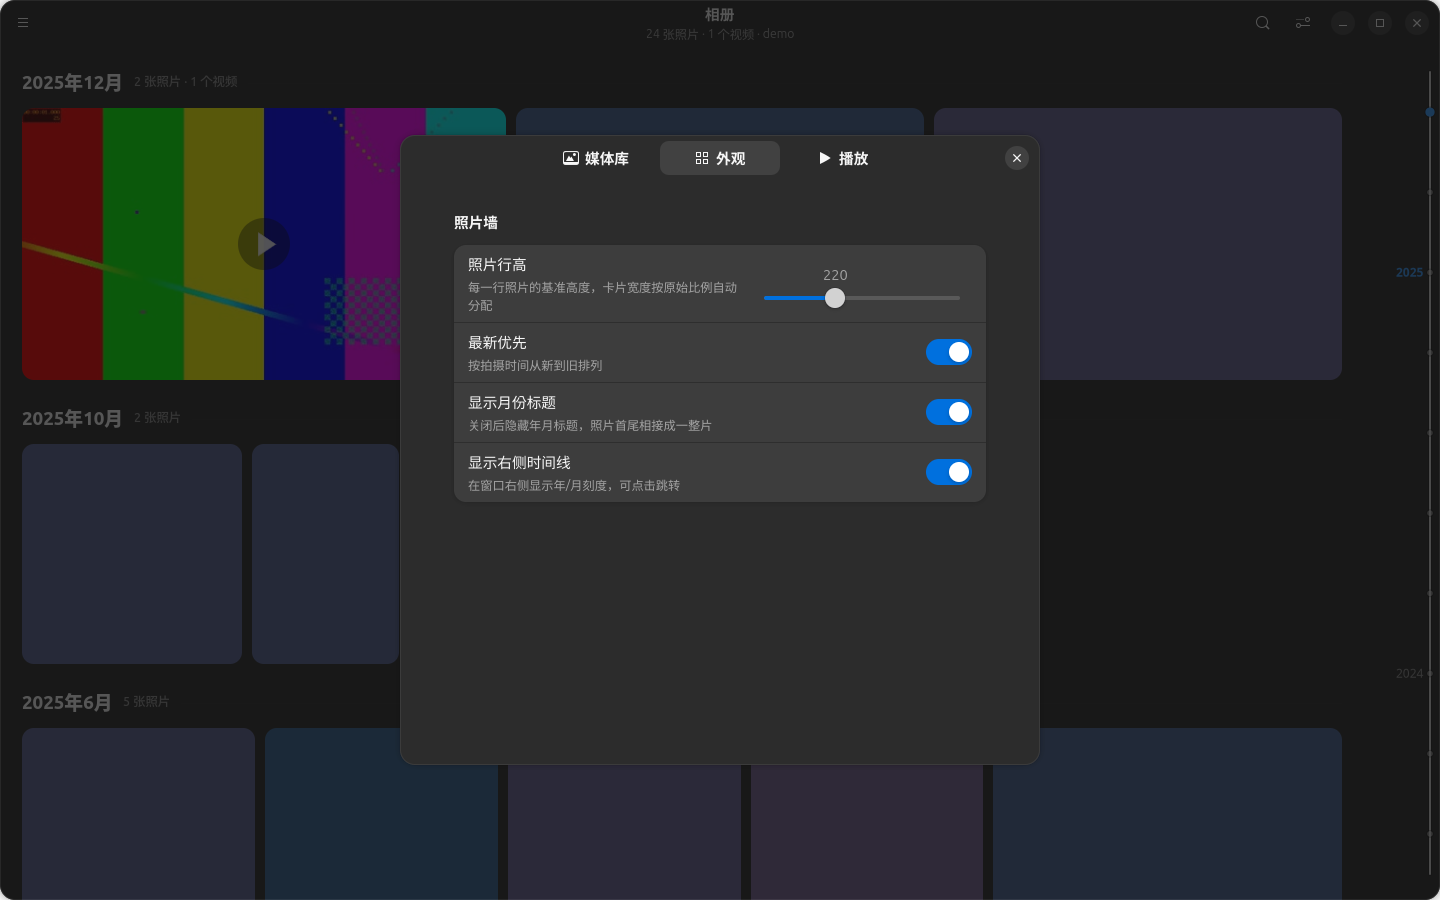
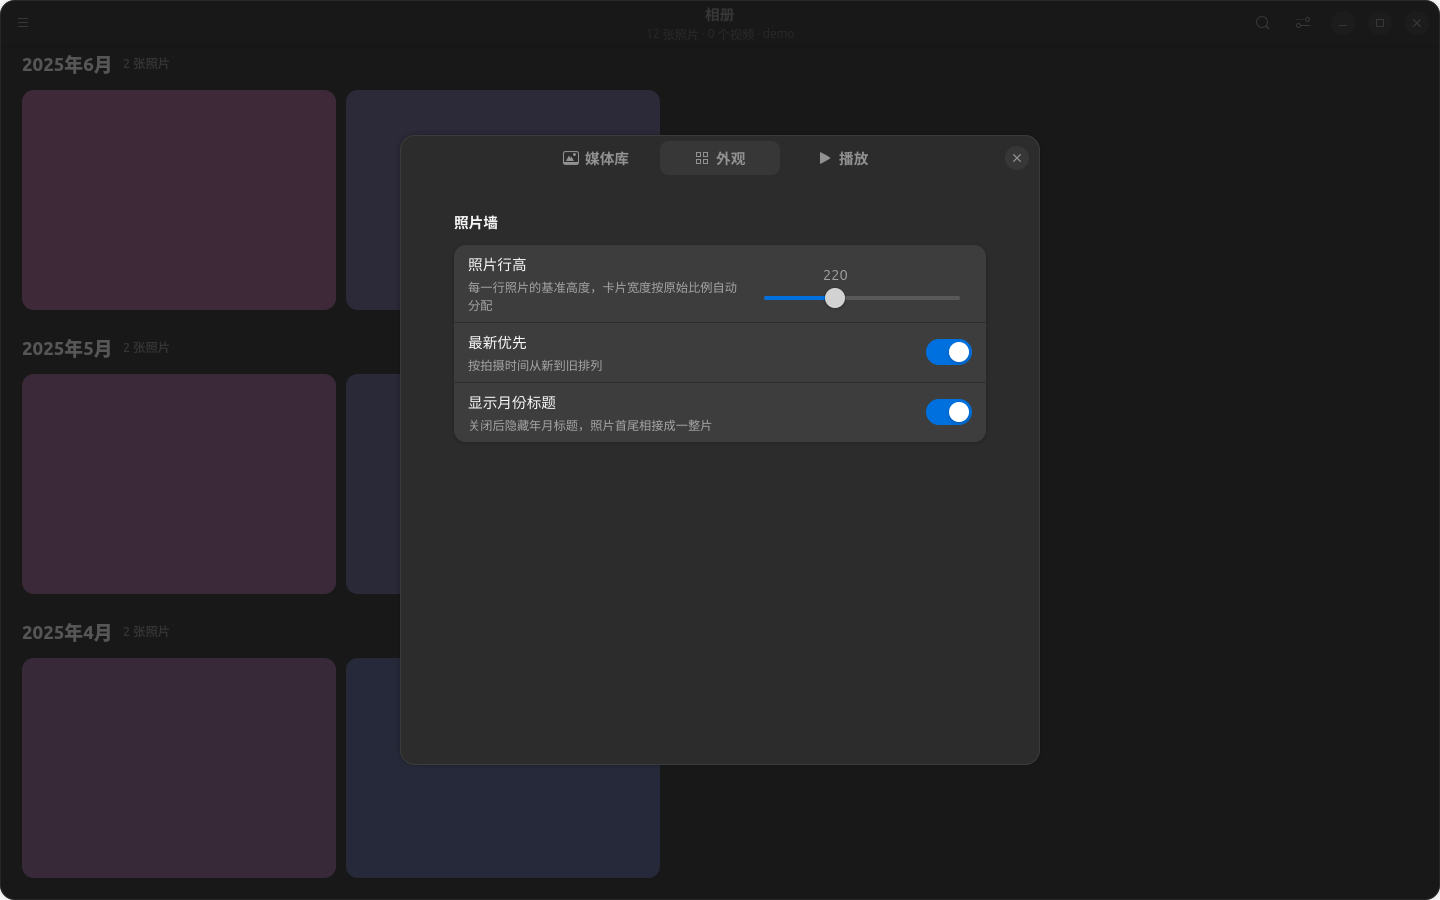
暂时关闭时间轴功能，版本 1.0.1

diff --git a/photo_album/preferences.py b/photo_album/preferences.py
@@ -8,7 +8,7 @@ from pathlib import Path
 
 from gi.repository import Adw, Gio, GLib, Gtk
 
-from .config import Config, ROW_HEIGHT_MAX, ROW_HEIGHT_MIN
+from .config import FEATURE_TIMELINE, Config, ROW_HEIGHT_MAX, ROW_HEIGHT_MIN
 from .models import format_size
 from .thumbnails import ThumbnailCache
 
@@ -126,12 +126,13 @@ class PreferencesDialog(Adw.PreferencesDialog):
         header_row.connect("notify::active", self._on_date_headers_changed)
         group.add(header_row)
 
-        timeline_row = Adw.SwitchRow()
-        timeline_row.set_title("显示右侧时间线")
-        timeline_row.set_subtitle("在窗口右侧显示年/月刻度，可点击跳转")
-        timeline_row.set_active(self._config.show_timeline)
-        timeline_row.connect("notify::active", self._on_timeline_changed)
-        group.add(timeline_row)
+        if FEATURE_TIMELINE:
+            timeline_row = Adw.SwitchRow()
+            timeline_row.set_title("显示右侧时间线")
+            timeline_row.set_subtitle("在窗口右侧显示年/月刻度，可点击跳转")
+            timeline_row.set_active(self._config.show_timeline)
+            timeline_row.connect("notify::active", self._on_timeline_changed)
+            group.add(timeline_row)
 
         page.add(group)
         self.add(page)

diff --git a/photo_album/window.py b/photo_album/window.py
@@ -8,7 +8,7 @@ from pathlib import Path
 
 from gi.repository import Adw, Gdk, Gio, GLib, Gtk
 
-from .config import APP_NAME, Config
+from .config import APP_NAME, FEATURE_TIMELINE, Config
 from .exif_editor import ExifEditor
 from .file_actions import copy_files, delete_permanently, move_to_trash, show_in_file_manager
 from .models import MediaItem
@@ -841,6 +841,8 @@ class MainWindow(Adw.ApplicationWindow):
         self._scroll_animation_source = GLib.timeout_add(16, tick)
 
     def _set_timeline_visible(self, visible: bool) -> None:
+        # 时间轴功能暂时关闭；保留实现和配置字段，恢复时将 FEATURE_TIMELINE 改为 True。
+        visible = bool(visible and FEATURE_TIMELINE)
         self._timeline.set_visible(visible)
         if hasattr(self, "_gallery"):
             self._gallery.set_side_inset(76 if visible else 0)

diff --git a/photo_album/config.py b/photo_album/config.py
@@ -14,7 +14,10 @@ from pathlib import Path
 
 APP_ID = "io.github.dengguibao.PhotoAlbum"
 APP_NAME = "相册"
-APP_VERSION = "1.0.0"
+APP_VERSION = "1.0.1"
+
+#: 时间轴功能暂时关闭；实现保留，改回 True 即可恢复。
+FEATURE_TIMELINE = False
 
 #: 默认媒体库目录（可通过偏好设置或命令行参数修改）。
 DEFAULT_ROOT = Path.home() / "OneDrive" / "Pictures"

diff --git a/README.md b/README.md
@@ -1,7 +1,7 @@
 # 相册 · Photo Album
 
 一个面向 Linux 的本地照片 / 视频浏览器，使用 **Python + PyGObject + GTK4 + libadwaita** 编写。
-界面参考 Windows 11「照片」：圆角等高行照片墙、右侧年月时间线、EXIF 信息、视频播放与右键删除。
+界面参考 Windows 11「照片」：圆角等高行照片墙、EXIF 信息、视频播放与右键删除。
 支持配置多个媒体库目录，也支持关闭月份标题，让所有照片首尾相接成一整片连续照片墙。
 
 ![主界面](screenshots/main.png)
@@ -13,16 +13,15 @@
 - **渐进加载**：打开应用直接进入相册，扫描结果按批次出现在照片墙中，
   顶部显示「正在加载 x/y…」，不需要等待整个媒体库扫描完成；已加载的缩略图会复用。
 - **月份标题可隐藏**：在「偏好设置 → 外观」关闭「显示月份标题」后，照片不再被标题分隔，
-  所有卡片首尾相接、跨月份连续成行，形成一整片照片墙；右侧时间线仍可用于定位和跳转。
+  所有卡片首尾相接、跨月份连续成行，形成一整片照片墙。
 - **多个媒体库位置**：可以添加任意多个文件夹，扫描结果合并展示；支持增删、去重，
   多个照片目录或移动硬盘都可以放进同一个相册。
-- **右侧透明时间轴**：时间轴是窗口右侧的透明列，始终显示；父容器没有背景，
-  只有一根时间轴线、年份标签和月份刻度。相册显示在时间轴左侧，不延伸到轴下方，
-  相册滚动条隐藏。悬停刻度会放大圆点并浮出「年-月」标签，点击刻度平滑跳转。
+- **时间轴暂时停用**：时间轴功能当前关闭，照片墙使用完整宽度；实现保留在
+  `timeline.py`，以后将 `config.py` 的 `FEATURE_TIMELINE` 改为 `True` 即可恢复。
 - **右键菜单 / 复制 / EXIF 编辑**：右键可打开、在文件管理器中显示、把**真实文件复制到剪贴板**
   （可直接在文件管理器中粘贴），或编辑照片的 EXIF（拍摄时间、相机、镜头、光圈、
   快门、ISO、焦距、说明）；视频不提供 EXIF 编辑。删除默认移到系统回收站
-  （失败时可选择永久删除），并即时刷新照片墙与时间线；删除文件并清理缩略图缓存后
+  （失败时可选择永久删除），并即时刷新照片墙；删除文件并清理缩略图缓存后
   只做**原地增量重排**，后面的照片直接向前补位，当前滚动位置保持不变，
   不会先跳到顶部再跳回来。选中卡片后按 `Delete` 也可删除。
 - **可配置媒体库**：默认目录 `~/OneDrive/Pictures`（不存在时使用 `~/Pictures`），
@@ -45,10 +44,6 @@
 不显示月份标题时的连续照片墙：
 
 ![连续照片墙](screenshots/continuous.png)
-
-时间线悬停效果（透明时间轴列，显示年-月标签）：
-
-![时间线悬停](screenshots/timeline_hover.png)
 
 筛选图标和点击后弹出的菜单：
 
@@ -81,7 +76,7 @@
 | GTK | 4.10 | `Gtk.FileDialog`、GTK4 控件 |
 | libadwaita | 1.5 | `Adw.Dialog`、`Adw.PreferencesDialog`、`Adw.AlertDialog` |
 | Pillow | 9 | 图片解码、缩略图 |
-| Pango / Cairo | 随 GTK 提供 | 时间线绘制 |
+| Pango / Cairo | 随 GTK 提供 | 自绘控件与缩略图 |
 
 ### 可选功能依赖
 
@@ -221,7 +216,7 @@ photo-album
 已生成可安装的 Debian 包：
 
 ```bash
-sudo apt install ./dist/photo-album_1.0.0_all.deb
+sudo apt install ./dist/photo-album_1.0.1_all.deb
 ```
 
 安装后可以在应用菜单里搜索「相册」启动，桌面入口和图标会安装到系统目录。
@@ -258,7 +253,6 @@ install -m 755 photo-album.desktop ~/.local/share/applications/
 - **复制文件**：右键卡片 →「复制」，文件会进入剪贴板，可直接在文件管理器中粘贴。
 - **编辑 EXIF**：右键照片 →「编辑 EXIF 信息」，可修改拍摄时间、相机、镜头、光圈、
   快门、ISO、焦距和说明；保存后会立即重新读取元数据并刷新照片墙。
-- **时间线**：右侧时间轴上的刻度悬停可看到年月，点击即可跳到对应月份。
 - **删除**：在卡片上点击右键 →「删除文件」，或选中卡片后按 `Delete`。
   确认后会移到系统回收站；如果回收站不可用，可再选择永久删除。
 
@@ -326,12 +320,12 @@ $XDG_CONFIG_HOME/photo-album/config.json
 ```text
 photo_album/
 ├── application.py    # Adw.Application、CSS、应用动作、命令行入口
-├── window.py         # 主窗口：工具栏、搜索/筛选、扫描调度、右键删除、时间线联动
+├── window.py         # 主窗口：工具栏、搜索/筛选、扫描调度、右键删除
 ├── wall.py           # 照片墙：等高行/连续模式、行几何、懒加载、纹理释放
 ├── media_tile.py     # 自绘卡片：圆角裁切、悬停、视频角标、右键/键盘删除
 ├── file_actions.py   # 回收站、永久删除、文件管理器定位、复制文件
 ├── exif_editor.py    # EXIF 编辑对话框（GExiv2 写入）
-├── timeline.py       # Cairo + Pango 自绘的右侧时间线
+├── timeline.py       # Cairo + Pango 时间轴实现（当前功能关闭）
 ├── viewer.py         # 全屏查看器：缩放平移、视频、EXIF 面板
 ├── scanner.py        # 多目录遍历 + GExiv2 / heif-info / Pillow / ffprobe 元数据
 ├── imaging.py        # Pillow / libheif / ffmpeg 图片解码与视频首帧
@@ -355,21 +349,16 @@ packaging/
    该行高度 = `(可用宽度 - 间距) / 宽高比之和`，每张卡片宽度 = `宽高比 × 行高`，
    并用最大余数法把小数像素分配到整数宽度，保证整行精确铺满。
    开启月份标题时，每个月独立成行；关闭标题时，行可以跨越月份连续排列。
-2. **时间线锚点**：布局完成后通过 `compute_bounds()` 记录每一行/月份标题的实际位置，
-   时间线高亮和跳转使用月份锚点；连续模式下月份即使从某行中间开始也能正确定位。
-3. **懒加载与内存控制**：视口上下各 0.9 屏内的行优先排队；离开 3 屏的纹理立即释放；
-   滚动或时间线跳转产生的过期请求会被取消，避免一次性解码几百张 HEIC。
-4. **删除不跳顶**：删除时保留现有行控件，只把卡片重新分配到新行并重建月份标题，
+2. **懒加载与内存控制**：视口上下各 0.9 屏内的行优先排队；离开 3 屏的纹理立即释放；
+   滚动产生的过期请求会被取消，避免一次性解码几百张 HEIC。
+3. **删除不跳顶**：删除时保留现有行控件，只把卡片重新分配到新行并重建月份标题，
    后面的照片直接向前补位；已加载纹理继续复用，滚动值不会被整墙重建重置。
-5. **右侧透明时间轴**：相册页面使用横向 `Gtk.Box`，左侧是照片墙，右侧是固定宽度的
-   透明时间轴列。时间轴父容器没有背景，只绘制一根轴线、年份文字、月份圆点和
-   悬停时的年-月标签；相册滚动条通过 CSS 隐藏，滚轮在时间轴上会转发给相册。
-6. **多位置扫描**：`LibraryScanner` 接收多个根目录，按 inode 去重，
+4. **多位置扫描**：`LibraryScanner` 接收多个根目录，按 inode 去重，
    重叠目录（例如父目录和子目录同时加入）不会重复收录；进度合并计算。
-7. **HEIC 解码**：使用 `heif-convert`（libheif）解码完整的 HEVC grid 图像；
+5. **HEIC 解码**：使用 `heif-convert`（libheif）解码完整的 HEVC grid 图像；
    没有时退回 ImageMagick，最后才用 ffmpeg 兜底。`heif-info` 提供主图显示尺寸，
    解码结果不再重复应用 EXIF 方向（libheif 已处理），并用信号量限制同时解码数量。
-8. **缩略图缓存**：以 `sha1(路径, mtime, 大小, 类型, 尺寸, 解码版本)` 为键，缓存为 JPEG；
+6. **缩略图缓存**：以 `sha1(路径, mtime, 大小, 类型, 尺寸, 解码版本)` 为键，缓存为 JPEG；
    换目录、文件修改或解码器升级都会自动失效。
 
 ## 测试
